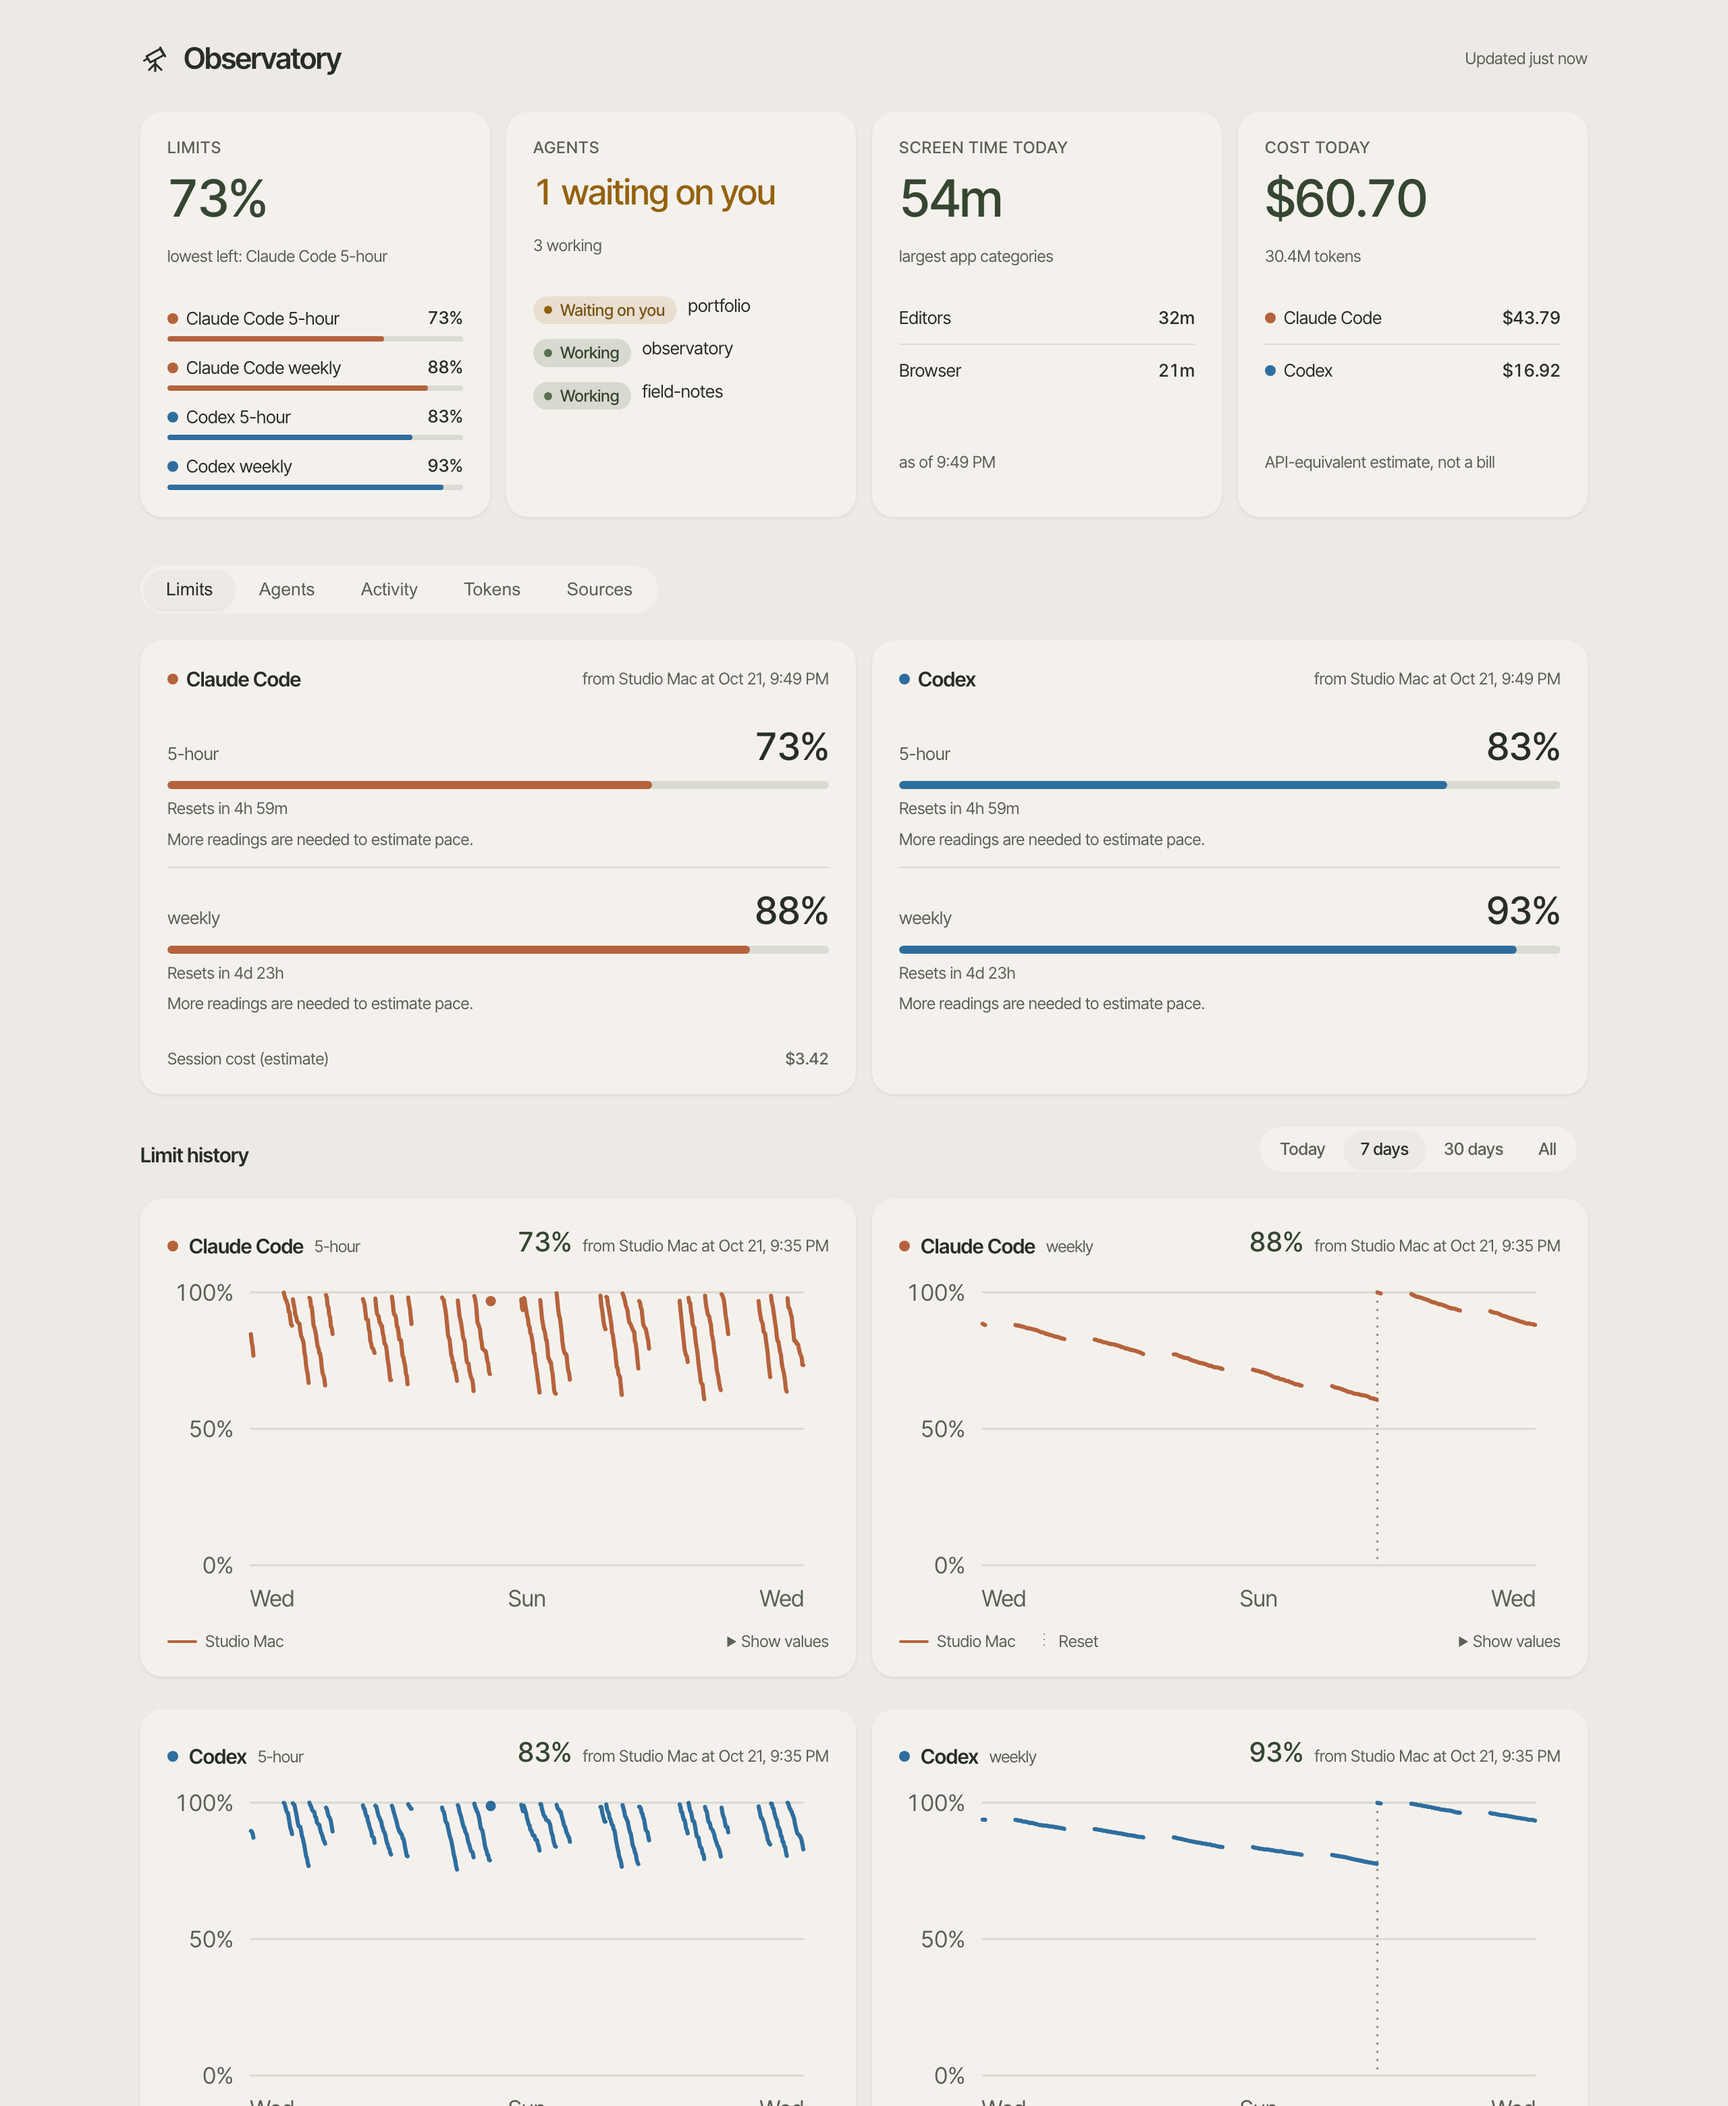
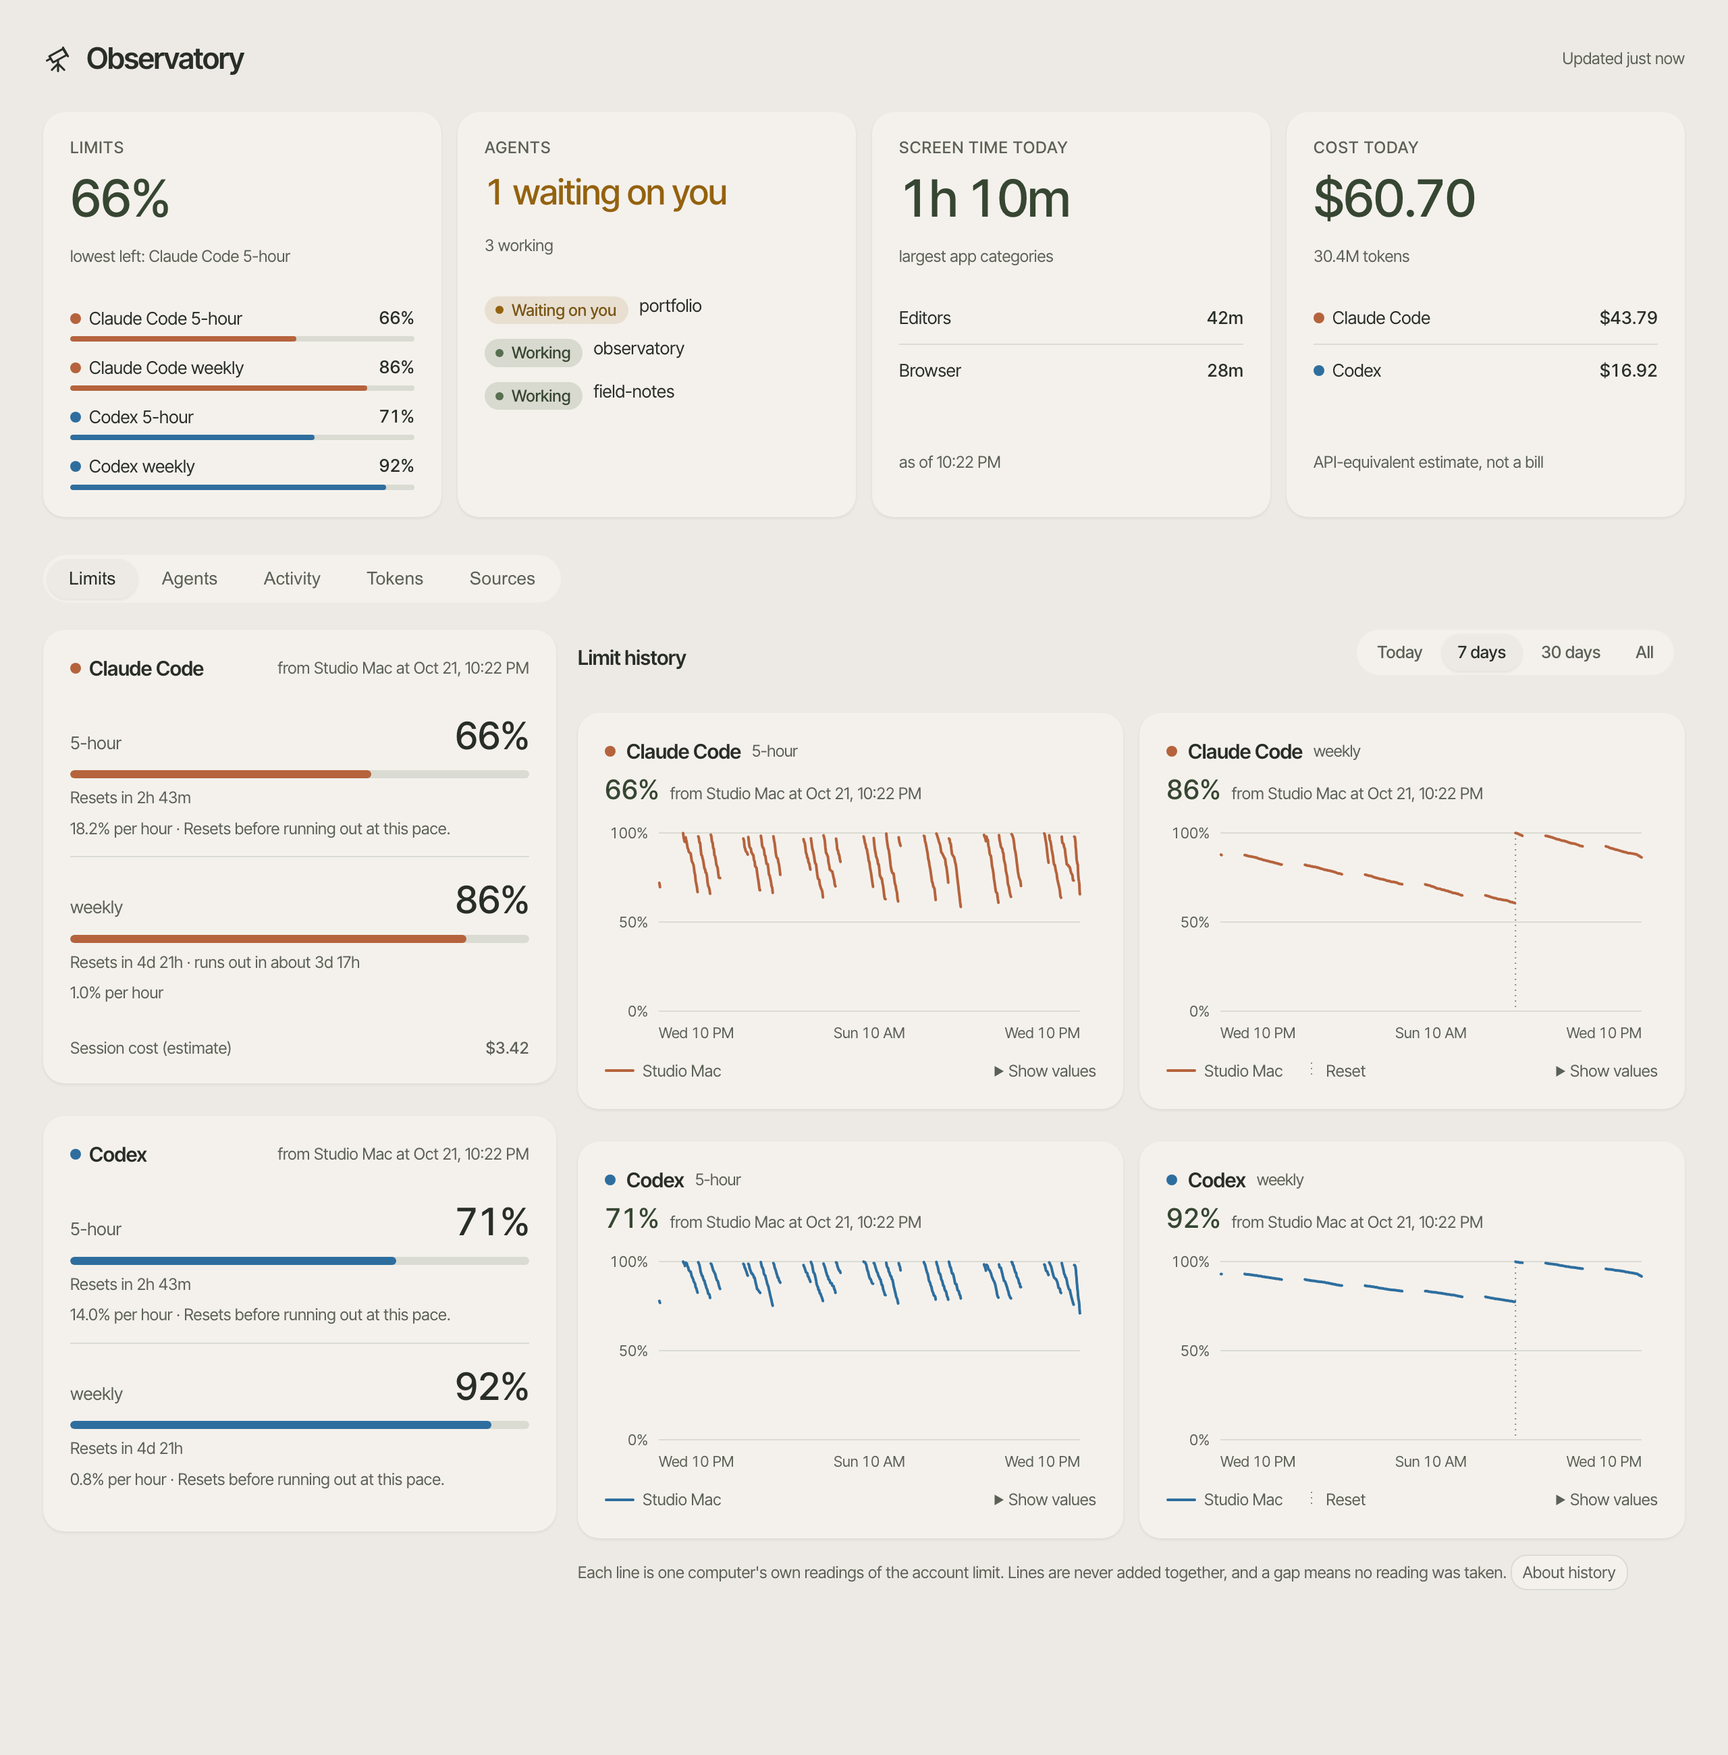
Chart headers stack the same way on every card, the preview reads every 5 minutes lately so pace shows, refreshed screenshots of the wider layout

diff --git a/app/viewer/limits/limits.css b/app/viewer/limits/limits.css
@@ -22,7 +22,7 @@
 .ob-history-grid-cards { display: grid; grid-template-columns: minmax(0, 1fr); gap: var(--ob-space-3); }
 .ob-history-grid-cards > .ob-card { margin-top: 0; }
 @media (min-width: 900px) { .ob-history-grid-cards { grid-template-columns: repeat(2, minmax(0, 1fr)); } }
-.ob-history-head { display: flex; flex-wrap: wrap; justify-content: space-between; align-items: baseline; gap: var(--ob-space-1) var(--ob-space-3); margin-bottom: var(--ob-space-2); }
+.ob-history-head { display: flex; flex-direction: column; align-items: flex-start; gap: var(--ob-space-1) var(--ob-space-3); margin-bottom: var(--ob-space-2); }
 .ob-dashboard .ob-history-head h4 { margin: 0; display: flex; align-items: center; gap: 2px; font-size: 15px; font-weight: 600; color: var(--ob-text); text-transform: none; letter-spacing: -0.2px; }
 .ob-history-head h4 .ob-meta { margin-left: 6px; font-weight: 400; }
 .ob-history-latest { display: flex; align-items: baseline; gap: var(--ob-space-2); min-width: 0; }
